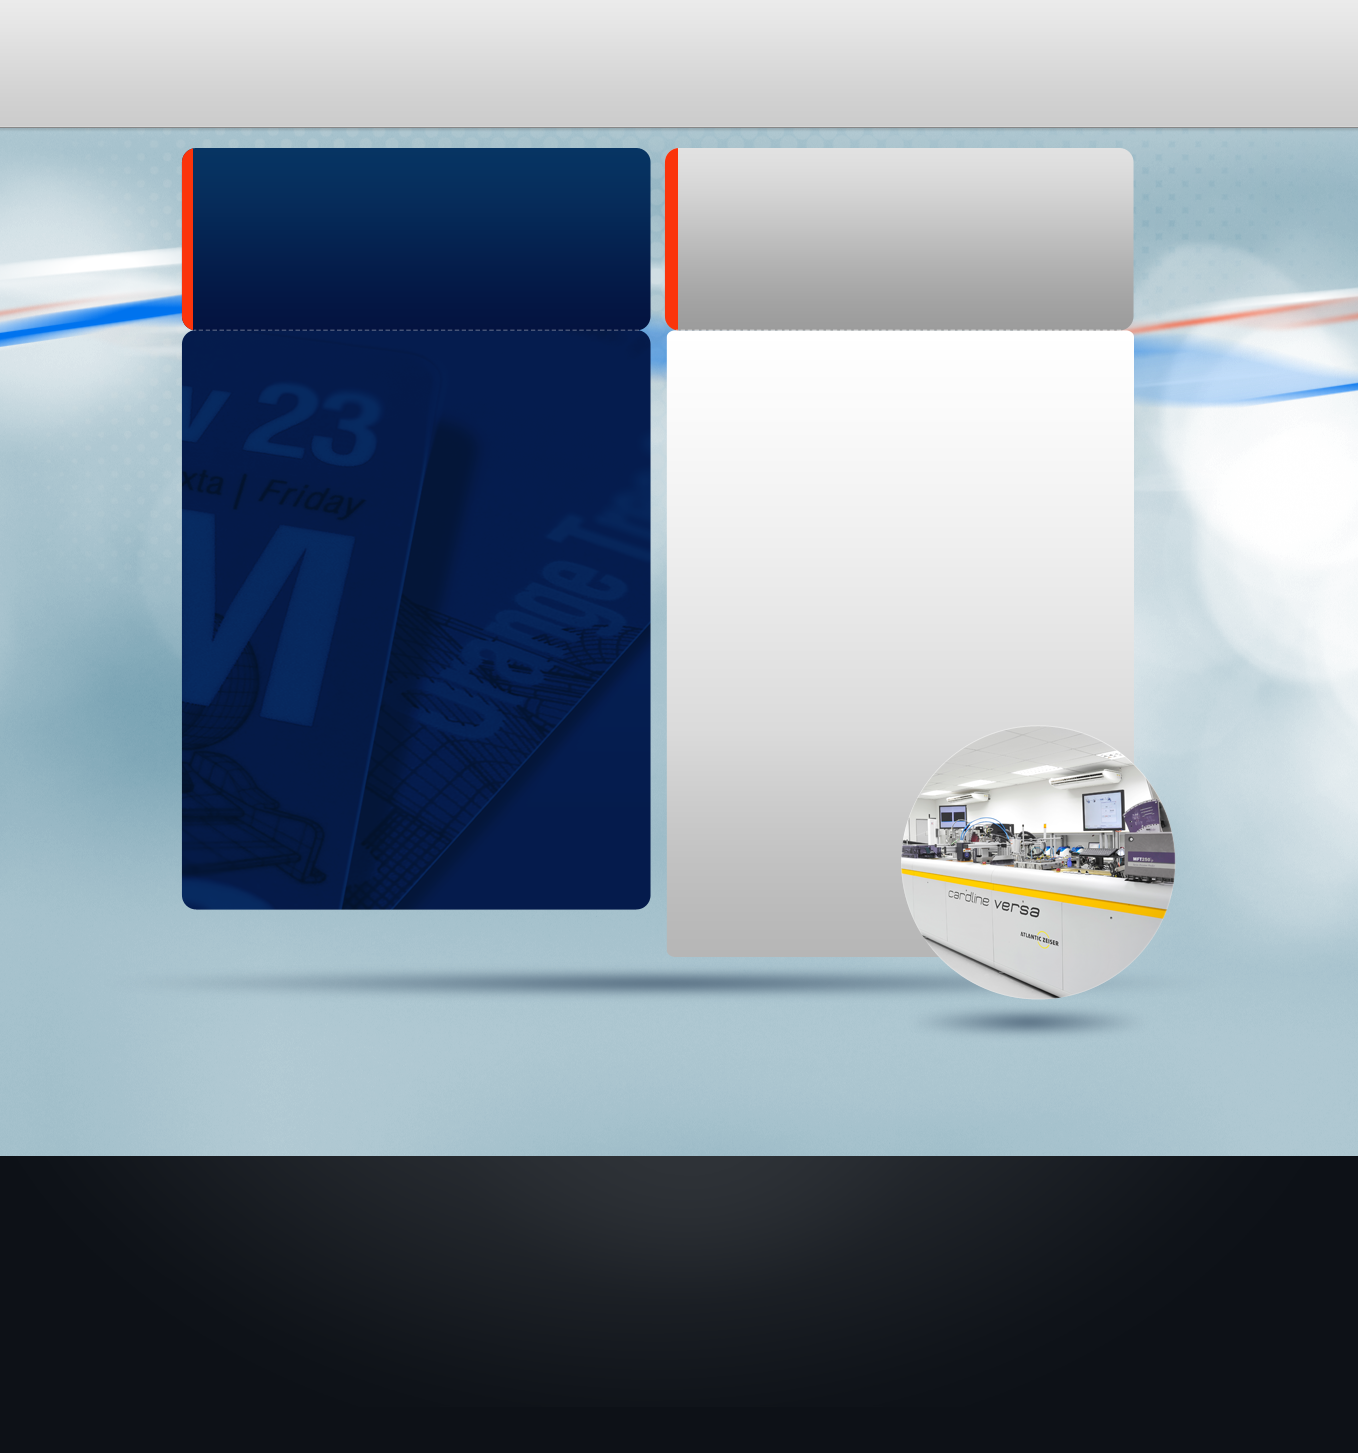
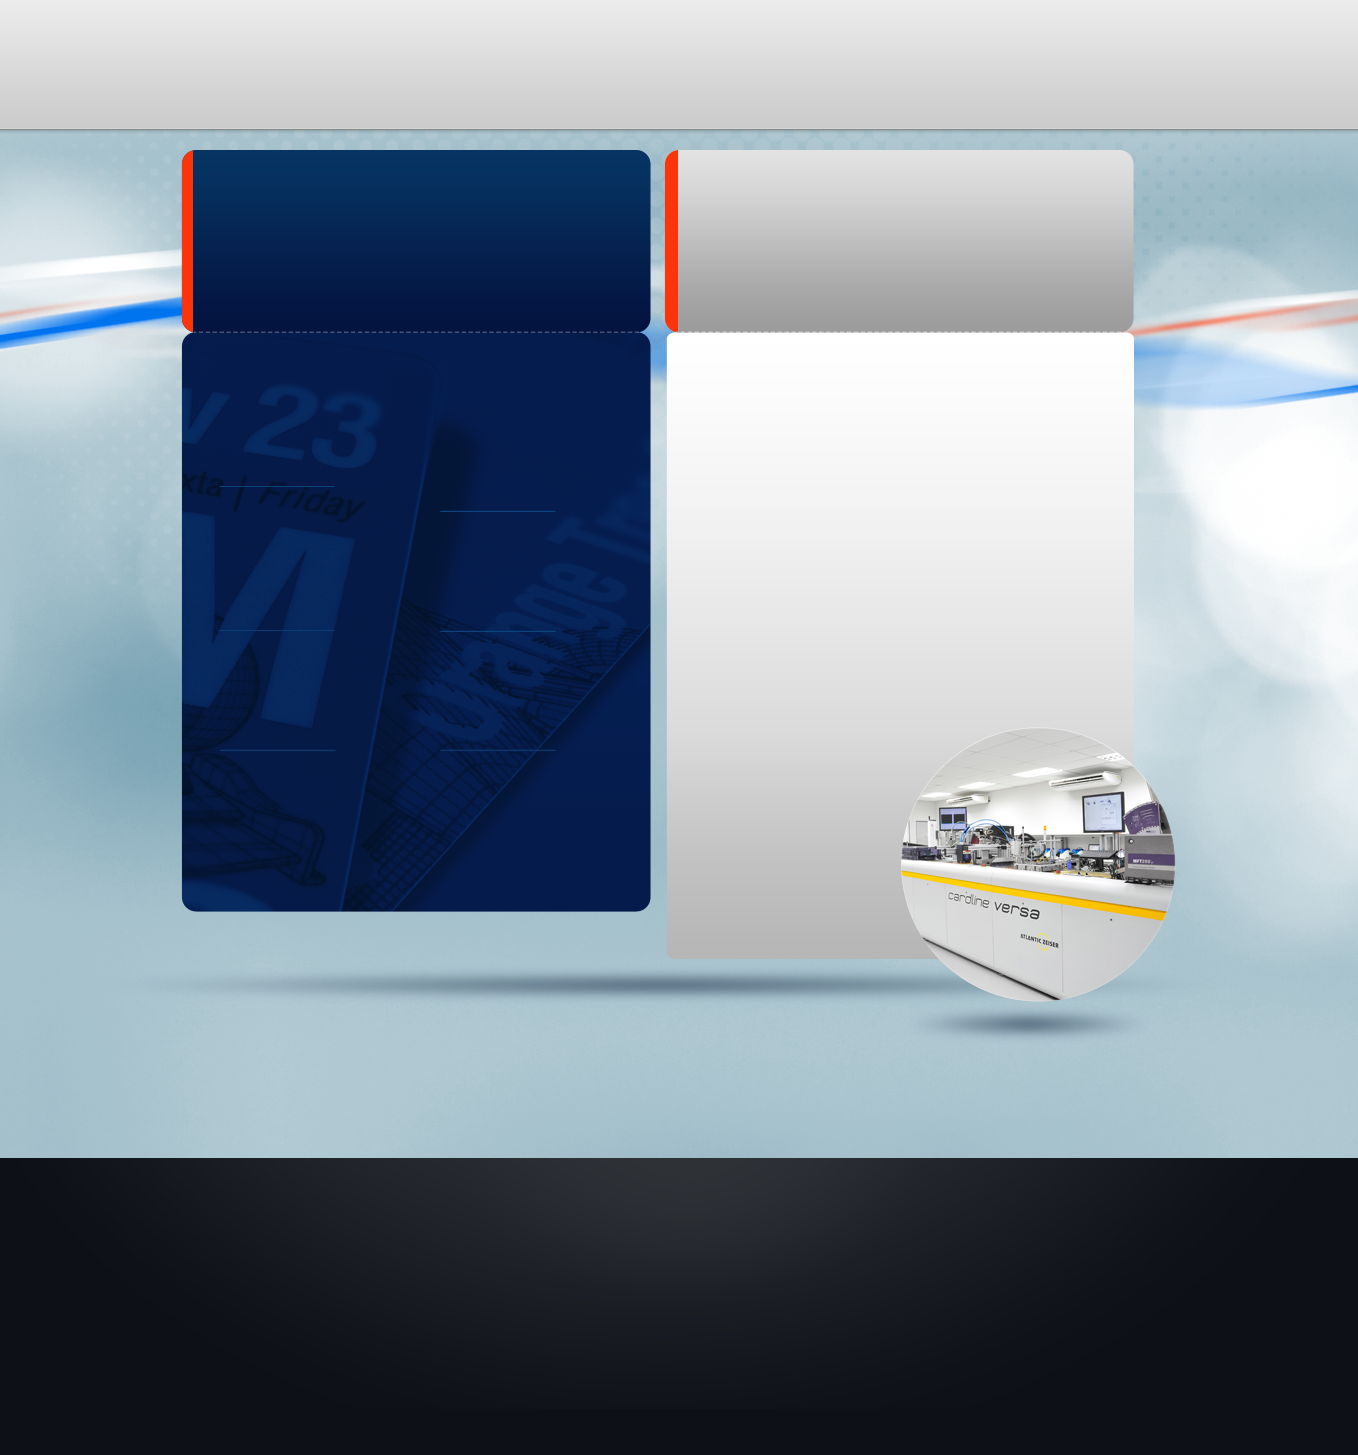
Alteração da img background Service

diff --git a/css/seguranca.css b/css/seguranca.css
@@ -6,10 +6,11 @@
 /*  Middle  */
 
 	#middle { width: 1358px; height: 884px; position: relative }
-		#middle #security { width: 492px; height: 718px; margin-left: 217px; margin-top: 20px; float: left ;background-color: red }
-			#middle #security #securityBox01 { width: 222px; height: 498px;  float: left; background-color: black }
-				#middle #security #security01 { width: 222px; height: 121px; background-color: gold }
-				#middle #security #security02 { width: 222px; height: 138px; background-color: pink }
+		#middle #security { width: 492px; height: 718px; margin-left: 217px; margin-top: 20px; float: left }
+			#middle #security #securityBox01 { width: 222px; height: 498px;  float: left }
+				#middle #security #security01 { width: 222px; height: 121px;
+												font-family: Signika, sans-serif; font-weight: lighter; font-size: 14px; color: #a6a6a6 }
+				#middle #security #security02 { width: 222px; height: 138px }
 				#middle #security #security03 { width: 222px; height: 119px; background-color: gray }
 				#middle #security #security04 { width: 222px; height: 120px; background-color: navy }
 
@@ -19,8 +20,10 @@
 				#middle #security #security07 { width: 270px; height: 119px; background-color: turquoise }
 				#middle #security #security08 { width: 270px; height: 120px; background-color: brown }
 
-			#middle #security #securityTittle { width: 492px; height: 53px; float: left;  background-color: maroon }
-			#middle #security #securityText  { width: 492px; height: 167px;  float: left; background-color: orange }
+			#middle #security #securityTittle { width: 492px; height: 37px; padding-top: 16px;float: left;
+												font-family: Signika, sans-serif; font-weight: semibold; font-size: 20px; color: #ffffff }
+			#middle #security #securityText  { width: 492px; height: 168px; float: left; line-height: 27px; letter-spacing: 1px;
+												font-family: Signika, sans-serif; font-weight: lighter; font-size: 16px; color: #4ab2cb }
 
 		#middle #bracket { width: 381px; height: 764px; margin-top: 20px; float:left ;background-color: purple }
 			#middle #bracket #bracketBox01 { width: 211px; height: 544px;  float: left; background-color: maroon }

diff --git a/seguranca.html b/seguranca.html
@@ -66,16 +66,23 @@
          
          		<div id="security"> 
          			<div id="securityTittle"> 
-
+         				Seguran&ccedil;a a toda prova
          			</div>	<!-- </securityTittle> -->
 
 					<div id="securityText"> 
-         
+         				A seguran&ccedil;a &eacute; um dos nossos principais objetivos, <br/>
+         				n&atilde;o somente das instala&ccedil;&otilde;es em que trabalhamos, <br/>
+         				mas tamb&eacute;m das importantes informa&ccedil;&otilde;es que <br/>
+         				processamos diretamente.
            			</div>	<!-- </securityText> -->
 
            			<div id="securityBox01"> 
 						<div id="security01"> 
-         
+         					&bull; Candidatos a funcion&aacute;rios <br/>
+         					s&atilde;o submetidos &agrave; extensa <br/>
+         					pesquisa pessoal incluindo <br/>
+         					hist&oacute;rico criminal,educacional <br/>
+         					e profissional.
            				</div>	<!-- </security01> -->
 
            				<div id="security02"> 
